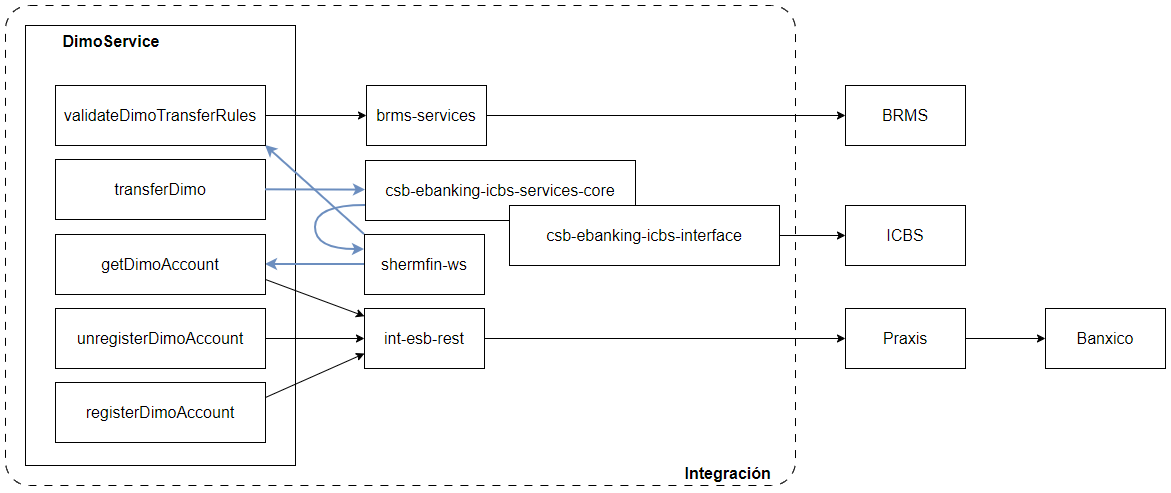
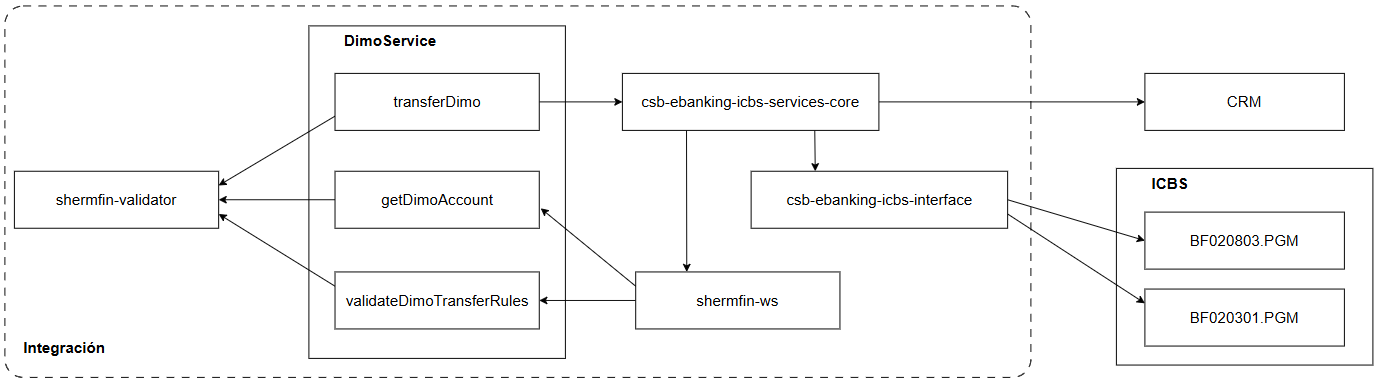
Transfer Dimo

diff --git a/services/DimoService/operations/transferDimo/index.md b/services/DimoService/operations/transferDimo/index.md
@@ -2,7 +2,7 @@
 
 # Dimo Service / transferDimo
 
-###  Esta operación permite consultar a través del proveedor Praxis, si un número de teléfono está vinculado a una cuenta CLABE en la base de datos de Banxico para realizar transferencias Dimo.
+###  Esta operación permite realizar transferencias Dimo.
 ---
 
 
@@ -37,23 +37,35 @@
 ## Request Body
 ```
 {
-  "getDimoAccountRequestBO": {
-    "applicationId": "string",
-    "cellphoneNumber": "string"
-  }
+  transferDimoRequestBO: {
+    applicationId: "string",
+    sessionId: "string",
+    accountGUID: "string",
+    beneficiaryCellphoneNumber: "string",
+    amount: 0,
+    description: "string",
+    referenceNumber: 0,
+    RFCCURPOrderer: "string",
+  },
 }
 ```
 ## Especificación de objetos y atributos del Request
 * ### Request Body
 | Campo | Tipo | M/O | L/Mi | L/Ma | V/C |
 |-|:-:|:-:|:-:|:-:|:-:|
-|getDimoAccountRequestBO|GetDimoAccountRequestBOObject|M|1|1|V|
+|transferDimoRequestBO|TransferDimoRequestBOObject|M|1|255|V|
 
-* ### GetDimoAccountRequestBOObject
+* ### TransferDimoRequestBOObject
 | Campo | Tipo | M/O | L/Mi | L/Ma | V/C |
 |-|:-:|:-:|:-:|:-:|:-:|
 |applicationId|String|M|1|255|V|
-|cellphoneNumber|String|M|10|10|V|
+|sessionId|String|M|1|255|V|
+|accountGUID|String|M|1|255|V|
+|beneficiaryCellphoneNumber|String|M|10|10|V|
+|amount|Number|M|1|17|V|
+|description|String|M|1|255|V|
+|referenceNumber|Number|M|1|255|V|
+|RFCCURPOrderer|String|M|1|255|V|
 
 
 ---
@@ -61,19 +73,12 @@
 ## Response Body
 ```
 {
-  "getDimoAccountResponseBO": {
+  "transferDimoResponseBO": {
     "status": "string",
     "code": "string",
     "response": "string",
-    "data": {
-      "recordFound": false,
-      "maskedCustomerName": "string",
-      "accountType": "string",
-      "accountNumber": "string",
-      "claveSPEI": "string",
-      "rfc": "string",
-      "folioPet": "string"
-    }
+    "transactionId": "string",
+    "trackingId": "string"
   }
 }
 ```
@@ -81,26 +86,16 @@
 * ### Request Body
 | Campo | Tipo |
 |-|:-:|
-|getDimoAccountResponseBO|GetDimoAccountResponseBOObject|
+|transferDimoResponseBO|TransferDimoResponseBOObject|
 
-* ### GetDimoAccountResponseBOObject
+* ### TransferDimoResponseBOObject
 | Campo | Tipo |
 |-|:-:|
 |status|String|
 |code|String|
 |response|String|
-|data|DataObject|
-
-* ### DataObject
-| Campo | Tipo |
-|-|:-:|
-|recordFound|Boolean|
-|maskedCustomerName|String|
-|accountType|String|
-|accountNumber|String|
-|claveSPEI|String|
-|rfc|String|
-|folioPet|String|
+|transactionId|String|
+|trackingId|String|
 
 ---
 
@@ -124,16 +119,16 @@
 ## URL de API por ambiente
 |Ambiente|URL|
 |-|-|
-|Desarrollo|https://apic.consubanco.com/csb/dev/dimo-service/getDimoAccount|    
-|Calidad|https://apic.consubanco.com/csb/qa/dimo-service/getDimoAccount|
-|Producción|https://apic.consubanco.com/csb/prd/dimo-service/getDimoAccount|
+|Desarrollo|https://apic.consubanco.com/csb/dev/dimo-service/transferDimo|    
+|Calidad|https://apic.consubanco.com/csb/qa/dimo-service/transferDimo|
+|Producción|https://apic.consubanco.com/csb/prd/dimo-service/transferDimo|
 
 ---
 
 
 ## Ejemplo de consumo del API - cURL
 ```
-curl --location 'https://apic.consubanco.com/csb/dev/dimo-service/getDimoAccount' \
+curl --location 'https://apic.consubanco.com/csb/dev/dimo-service/transferDimo' \
 --header 'Content-Type: application/json' \
 --header 'Accept: application/json' \
 --header 'X-IBM-Client-Id: XXXXXXXXXXXXXXXXX' \
@@ -146,13 +141,18 @@ curl --location 'https://apic.consubanco.com/csb/dev/dimo-service/getDimoAccount
 ## Componentes de integración relacionados
 |Componente|Paquete/Clase|Método|
 |-|-|-|
-|int-esb-rest-services-mdw|com.consubanco.rest.dimo.impl.DimoServicesImpl|getDimoAccount|
+|csb-ebanking-icbs-services-core|com.consubanco.ebanking.interfaces.icbs.transfer.dimo.impl.TransferDimoImpl|transferDimo|
+|csb-ebanking-icbs-interface|com.consubanco.ebanking.icbs.interfaces.service.impl.CallTransferSameOwnerAccountImpl|transferSameOwner|
+|csb-ebanking-icbs-interface|com.consubanco.ebanking.icbs.interfaces.service.impl.CallTransferThirdPartyImpl|transferThirdParty|
+|shermfin-ws|DimoService.DimoService.DimoService|getDimoAccount|
+|shermfin-ws|DimoService.DimoService.DimoService|validateDimoTransferRules|
 
 ---
 ## Componentes externos relacionados
-|Tipo|Método|URL|Headers|
-|-|-|-|-|
-|REST|POST|http://csbsamdint1.consupago.com:9080/karpaydm/api/banxico/consulta|X-API-KEY<br>X-API-SECRET|
+|Tipo|RPG Program|
+|-|-|
+|ICBS|BF020803|
+|ICBS|BF020301|
 
 ---
 

diff --git a/services/DimoService/operations/validateDimoTransferRules/index.md b/services/DimoService/operations/validateDimoTransferRules/index.md
@@ -59,32 +59,31 @@
 ```
 ## Especificación de objetos y atributos del Request
 * ### Request Body
-| Campo | Tipo |
-|-|:-:|
-|validateDimoTransferRulesRequestBO|ValidateDimoTransferRulesRequestBOObject|
+| Campo | Tipo | M/O | L/Mi | L/Ma | V/C |
+|-|:-:|:-:|:-:|:-:|:-:|
+|validateDimoTransferRulesRequestBO|ValidateDimoTransferRulesRequestBOObject|M|1|255|V|
 
 * ### ValidateDimoTransferRulesRequestBOObject
-| Campo | Tipo |
-|-|:-:|
-|applicationId|String|
-|transferInfo|TransferInfoObject|
+| Campo | Tipo | M/O | L/Mi | L/Ma | V/C |
+|-|:-:|:-:|:-:|:-:|:-:|
+|applicationId|String|M|1|255|V|
+|transferInfo|TransferInfoObject|M|1|255|V|
 
 * ### TransferInfoObject
-| Campo | Tipo |
-|-|:-:|
-|amount|Number|
-|description|String|
-|cellphoneNumber|String|
-|sourceAccount|AccountBOObject|
-|destinationAccount|AccountBOObject|
+| Campo | Tipo | M/O | L/Mi | L/Ma | V/C |
+|-|:-:|:-:|:-:|:-:|:-:|
+|amount|Number|M|1|17|V|
+|description|String|M|1|255|V|
+|cellphoneNumber|String|M|10|10|V|
+|sourceAccount|AccountBOObject|M|1|1|V|
+|destinationAccount|AccountBOObject|M|1|1|V|
 
 * ### AccountBOObject
-| Campo | Tipo |
-|-|:-:|
-|bankId|String|
-|accountNumber|String|
-|cellphoneNumber|String|
-
+| Campo | Tipo | M/O | L/Mi | L/Ma | V/C |
+|-|:-:|:-:|:-:|:-:|:-:|
+|bankId|String|M|1|17|V|
+|accountNumber|String|M|1|64|V|
+|cellphoneNumber|String|M|10|10|V|
 
 ---
 

diff --git a/services/DimoService/operations/registerDimoAccount/index.md b/services/DimoService/operations/registerDimoAccount/index.md
@@ -58,12 +58,12 @@
 | Campo | Tipo | M/O | L/Mi | L/Ma | V/C |
 |-|:-:|:-:|:-:|:-:|:-:|
 |applicationId|String|M|1|255|V|
-|cellphoneNumber|String|M|1|255|V|
+|cellphoneNumber|String|M|10|10|V|
 |accountType|String|M|1|255|V|
-|accountCLABE|String|M|1|255|V|
+|accountCLABE|String|M|18|18|V|
 |maskedCustomerName|String|M|1|255|V|
 |rfc|String|M|1|255|V|
-|inCodi|String|M|1|255|V|
+|inCodi|String|M|1|1|V|
 
 
 ---

diff --git a/services/DimoService/operations/unregisterDimoAccount/index.md b/services/DimoService/operations/unregisterDimoAccount/index.md
@@ -53,7 +53,7 @@
 | Campo | Tipo | M/O | L/Mi | L/Ma | V/C |
 |-|:-:|:-:|:-:|:-:|:-:|
 |applicationId|String|M|1|255|V|
-|cellphoneNumber|String|M|1|255|V|
+|cellphoneNumber|String|M|10|10|V|
 
 
 ---
